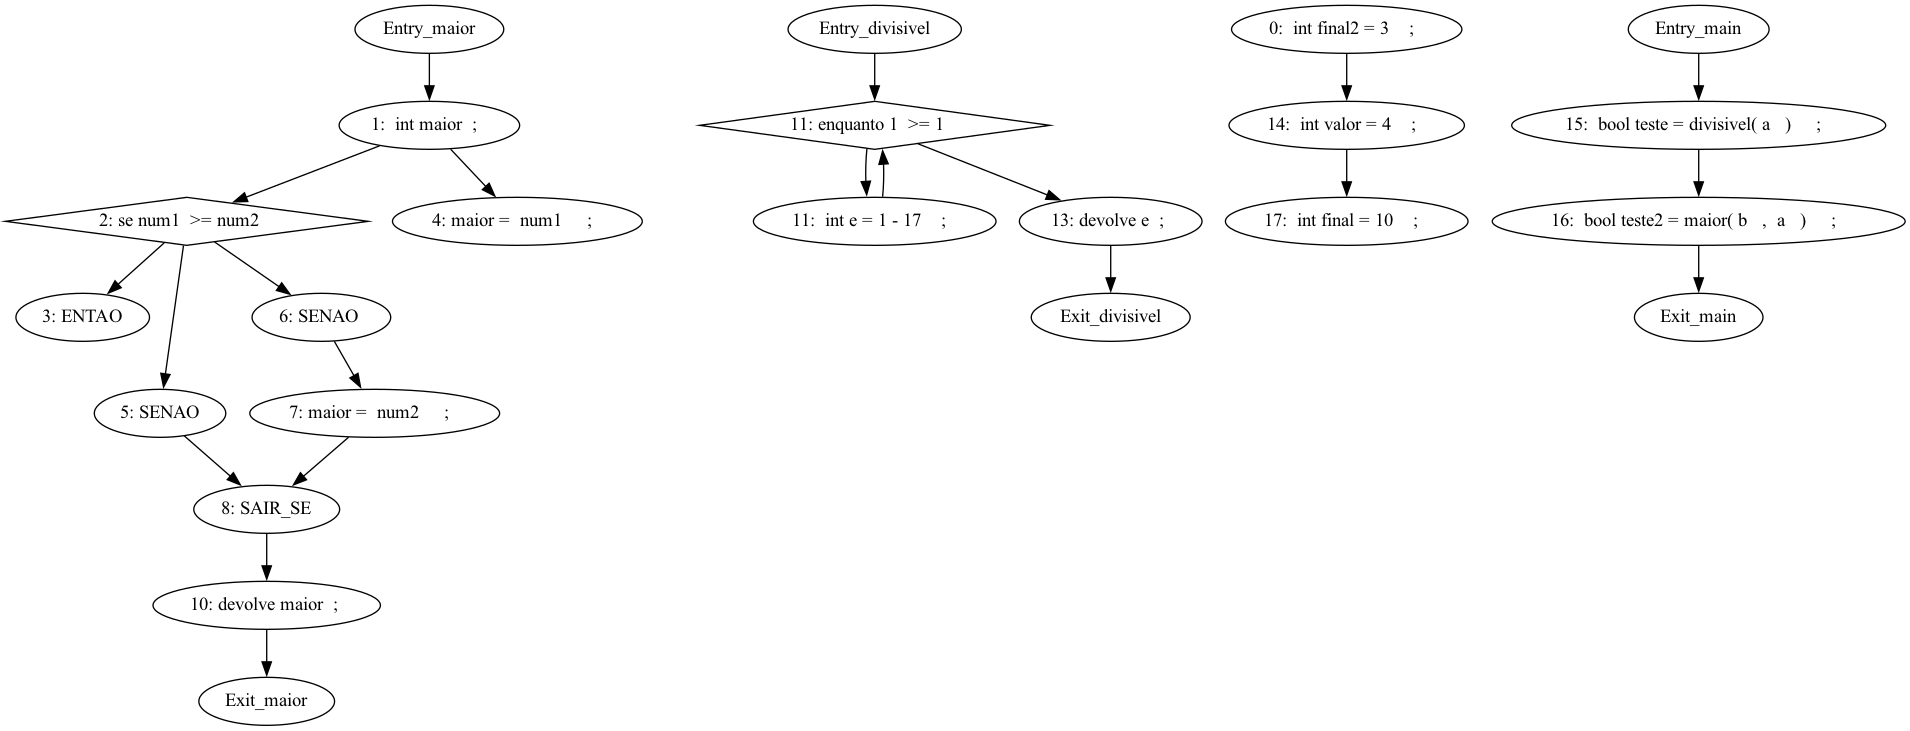
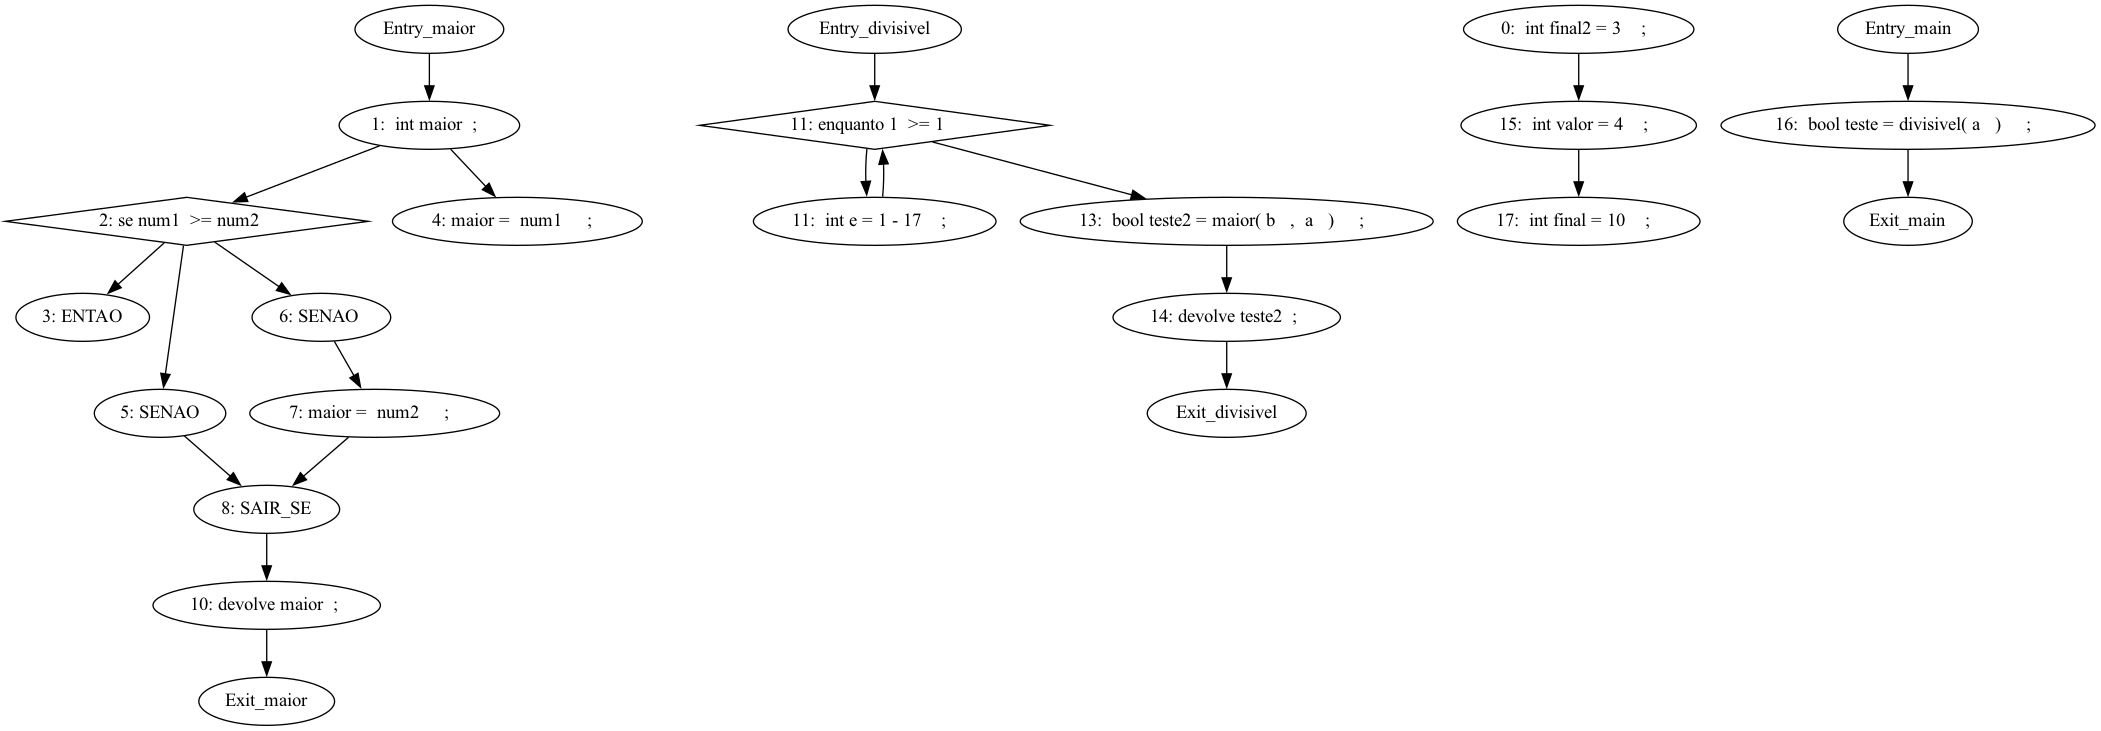
Teorema McCabes

diff --git a/output.html b/output.html
@@ -178,8 +178,8 @@
                 <span class="naoUsada">Cor -</span> <span class="code"> Não-Utilizada </span> <br/> 
  
         <br/><span class="code"> int </span><span class="naoUsada" id="None-final2"> final2 </span><span class="code"> = </span><span class="code"> 3 </span><span class="code"> ; </span> <br/> <br/><span class="def"> def </span><span class="code"> int </span><span class="funcName"> maior</span> <span class="code"> ( </span><span class="code"> int </span><span class="code" id="maior-num1">num1 </span><span class="code">, </span><span class="code"> int </span><span class="code" id="maior-num2">num2 </span><span class="code"> ) </span><span class="code"> { </span> <br/> <br/>	<span class="code"> int </span><span class="code" id="maior-maior"> maior </span><span class="code"> ; </span> <br/> <br/>	<span class="ciclo"> se </span><span class="code" id="maior-num1"> num1 </span><span class="code"> &gt;= </span><span class="code" id="maior-num2"> num2 </span><span class="code"> { </span> <br/> <br/>		<span class="code" id="maior-maior">maior </span><span class="code" id="maior-num1"> num1 </span><span class="code"> ; </span> <br/> <br/><span class="ciclo"> senao </span><span class="code" id="maior-maior">maior </span><span class="code" id="maior-num2"> num2 </span><span class="code"> ; </span> <br/> <br/>	<span class="code"> } </span> <br/> <br/>	<span class="retornos"> devolve </span><span class="code" id="maior-maior"> maior </span><span class="code"> ; </span> <br/> <br/>	<span class="code"> } </span> <br/> 
-<span class="def"> def </span><span class="code"> bool </span><span class="funcName"> divisivel</span> <span class="code"> ( </span><span class="code"> int </span><span class="naoUsada" id="divisivel-a">a </span><span class="code"> ) </span><span class="code"> { </span> <br/> <br/>	<span class="ciclo"> enquanto </span><span class="code"> 1 </span><span class="code"> &gt;= </span><span class="code"> 1 </span><span class="ciclo"> fazer </span>			<span class="code"> int </span><span class="code" id="divisivel-e"> e </span><span class="code"> = </span><span class="code"> 1 </span><span class="code"> - </span><span class="code"> 17 </span><span class="code"> ; </span> <br/> <br/><span class="ciclo"> end </span> <br/> <br/>		<span class="retornos"> devolve </span><span class="code" id="divisivel-e"> e </span><span class="code"> ; </span> <br/> <br/>		<span class="code"> } </span> <br/> 
-	<span class="code"> int </span><span class="naoUsada" id="None-valor"> valor </span><span class="code"> = </span><span class="code"> 4 </span><span class="code"> ; </span> <br/> <br/>	<span class="def"> def </span><span class="code"> int </span><span class="funcName"> main</span> <span class="code"> ( </span><span class="code"> int </span><span class="code" id="main-a">a </span><span class="code">, </span><span class="code"> int </span><span class="code" id="main-b">b </span><span class="code"> ) </span><span class="code"> { </span> <br/> <br/>		<span class="code"> bool </span><span class="naoUsada" id="main-teste"> teste </span><span class="code"> = </span><span class="funcName" id="main-divisivel"> divisivel </span> <span class="code">(</span><span class="code" id="main-a"> a </span><span class="code"> ) </span><span class="code"> ; </span> <br/> <br/>		<span class="code"> bool </span><span class="naoUsada" id="main-teste2"> teste2 </span><span class="code"> = </span><span class="funcName" id="main-maior"> maior </span> <span class="code">(</span><span class="code" id="main-b"> b </span><span class="code">, </span><span class="code" id="main-a"> a </span><span class="code"> ) </span><span class="code"> ; </span> <br/> <br/>		<span class="code"> } </span> <br/> 
+<span class="def"> def </span><span class="code"> bool </span><span class="funcName"> divisivel</span> <span class="code"> ( </span><span class="code"> int </span><span class="code" id="divisivel-a">a </span><span class="code"> ) </span><span class="code"> { </span> <br/> <br/>	<span class="ciclo"> enquanto </span><span class="code"> 1 </span><span class="code"> &gt;= </span><span class="code"> 1 </span><span class="ciclo"> fazer </span>			<span class="code"> int </span><span class="naoUsada" id="divisivel-e"> e </span><span class="code"> = </span><span class="code"> 1 </span><span class="code"> - </span><span class="code"> 17 </span><span class="code"> ; </span> <br/> <br/><span class="ciclo"> end </span> <br/> <br/>		<span class="code"> bool </span><span class="code" id="divisivel-teste2"> teste2 </span><span class="code"> = </span><span class="funcName" id="divisivel-maior"> maior </span> <span class="code">(</span><span class="naoDeclaracao"> b </span><span class="code">, </span><span class="code" id="divisivel-a"> a </span><span class="code"> ) </span><span class="code"> ; </span> <br/> <br/>		<span class="retornos"> devolve </span><span class="code" id="divisivel-teste2"> teste2 </span><span class="code"> ; </span> <br/> <br/>		<span class="code"> } </span> <br/> 
+	<span class="code"> int </span><span class="naoUsada" id="None-valor"> valor </span><span class="code"> = </span><span class="code"> 4 </span><span class="code"> ; </span> <br/> <br/>	<span class="def"> def </span><span class="code"> int </span><span class="funcName"> main</span> <span class="code"> ( </span><span class="code"> int </span><span class="code" id="main-a">a </span><span class="code">, </span><span class="code"> int </span><span class="naoUsada" id="main-b">b </span><span class="code"> ) </span><span class="code"> { </span> <br/> <br/>		<span class="code"> bool </span><span class="naoUsada" id="main-teste"> teste </span><span class="code"> = </span><span class="funcName" id="main-divisivel"> divisivel </span> <span class="code">(</span><span class="code" id="main-a"> a </span><span class="code"> ) </span><span class="code"> ; </span> <br/> <br/>		<span class="code"> } </span> <br/> 
 	<span class="code"> int </span><span class="naoUsada" id="None-final"> final </span><span class="code"> = </span><span class="code"> 10 </span><span class="code"> ; </span> <br/> <br/>
             </code></pre>
 <h3>Estatisticas</h3>
@@ -188,7 +188,7 @@
 <th> </th><th> </th>
 </tr>
 <tr><td><span>Variáveis já declaradas:</span></td><td> 0</td></tr>
-<tr><td><span>Variáveis não declaradas:</span></td><td> 0</td></tr>
+<tr><td><span>Variáveis não declaradas:</span></td><td> 1</td></tr>
 <tr><td><span>Variáveis não utilizadas:</span></td><td> 3</td></tr>
 <tr><td><span>Variáveis não inicializadas:</span></td><td> 0</td></tr>
 <tr><td><span>Variáveis do tipo int:</span></td><td> 10</td></tr><tr><td><span>Variáveis do tipo bool:</span></td><td> 2</td></tr><tr><td><span>Total de variaveis:</span></td><td> 12</td></tr><tr><td><span>SE's dentro de SE's:</span></td><td>   0</td></tr><tr><td><span>SE's dentro de REP's:</span></td><td>  0</td></tr><tr><td><span>REP's dentro de SE's:</span></td><td>  0</td></tr><tr><td><span>REP's dentro de REP's:</span></td><td> 1</td></tr>

diff --git a/linguagem.py b/linguagem.py
@@ -547,27 +547,56 @@ class MyInterpreter(Interpreter):
         funcoes = {}
         for line in lines:
             if "Entry" in line:
-                if line.split("->")[0] not in funcoes.keys():
-                    funcoes[line.split("->")[0]] = {}
-        
+                if "Entry" in line.split("->")[0]:
+                    if line.split("->")[0] not in funcoes.keys():
+                        key = re.sub(" ", "", line.split("->")[0])
+                        funcoes[key] = {}
+                if "Entry" in line.split("->")[1]:
+                    if line.split("->")[1] not in funcoes.keys():
+                        key = re.sub("\n", " ", line.split("->")[1])
+                        key = re.sub(" ", "", key)
+                        funcoes[key] = {}
+                    
         antigo = ""
         for line in lines:
-            if(line.split("->")[0] and line.split("->")[1] in funcoes.keys()):
-                pass
-            elif line.split("->")[0] in funcoes.keys():
-                if "arestas" not in funcoes[line.split("->")[0]].keys():
-                    funcoes[line.split("->")[0]]["arestas"] = 1
+            key1 = re.sub(" ", "", line.split("->")[0])
+            key2 = re.sub("\n", " ", line.split("->")[1])
+            key2 = re.sub(" ", "", key2)
+            if key1 in funcoes.keys():
+                if "arestas" not in funcoes[key1].keys():
+                    funcoes[key1]["arestas"] = 1
                 else:
-                    funcoes[line.split("->")[0]]["arestas"] += 1
-                antigo = line.split("->")[0]
+                    funcoes[key1]["arestas"] += 1
+                if "nodos" not in funcoes[key1].keys():
+                    funcoes[key1]["nodos"] = [key2]
+                else:
+                    if key2 not in funcoes[key1]["nodos"]:
+                        funcoes[key1]["nodos"].append(key2)
+                
+                antigo = key1
+            elif key1 and key2 not in funcoes.keys():
+                if "nodos" not in funcoes[antigo].keys():
+                    funcoes[antigo]["nodos"] = [key1, key2]
+                    funcoes[antigo]["arestas"] += 1
+                else:
+                    if key1 not in funcoes[antigo]["nodos"]:
+                        funcoes[antigo]["nodos"].append(key1)
+                    if key2 not in funcoes[antigo]["nodos"]:
+                        funcoes[antigo]["nodos"].append(key2)
+                    funcoes[antigo]["arestas"] += 1
+
             else :
                 if "arestas" not in funcoes[antigo].keys():
                     funcoes[antigo]["arestas"] = 1
                 else:
                     funcoes[antigo]["arestas"] += 1
-                    
-        print("Diccionario de funcoes: " + str(funcoes))
-            
+                
+        
+        for key in funcoes.keys():
+            print("Funcao: " + key)
+            print("\tNodos: " + str(funcoes[key]["nodos"]))
+            print("\tArestas: " + str(funcoes[key]["arestas"]))
+
 #####################################################
 ################ Interpreter methods ################
 #####################################################
